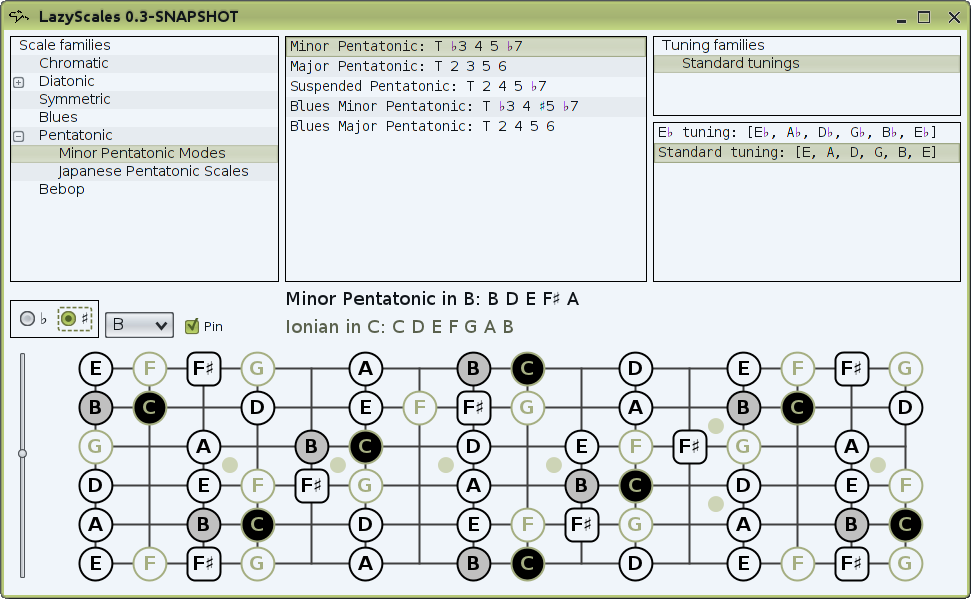
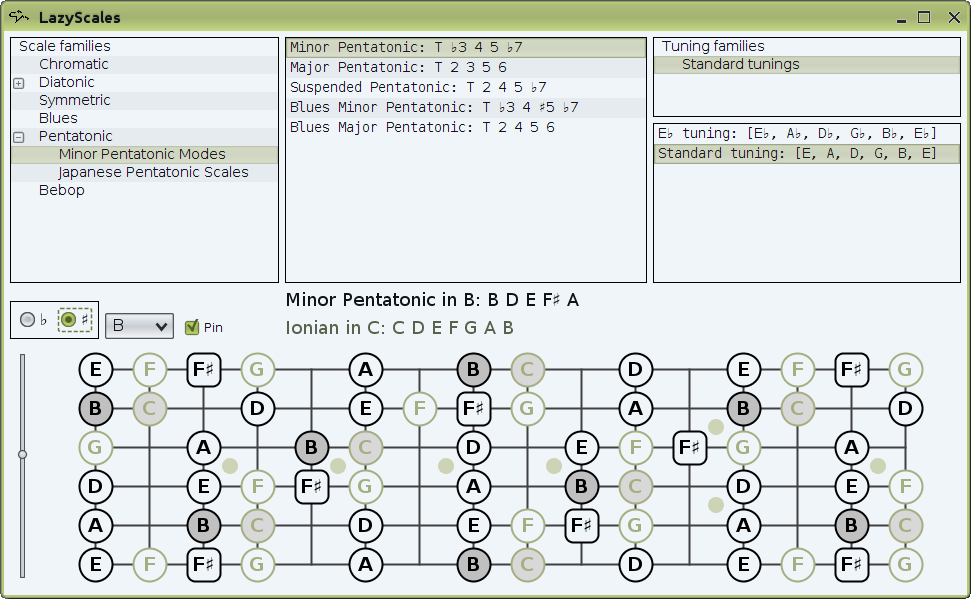
Use a lighter shade of gray for the starting note of the pinned scale.

diff --git a/lazyscales-gui/src/main/java/se/nawroth/scales/gui/FretboardPanel.java b/lazyscales-gui/src/main/java/se/nawroth/scales/gui/FretboardPanel.java
@@ -53,7 +53,8 @@ public class FretboardPanel extends JPanel
     private static final Color DOT_COLOR = new Color( 205, 212, 182 );
     private static final Color STRINGS_FRETS_COLOR = Color.darkGray;
     private static final Color STARTING_NOTE_BGCOLOR = Color.lightGray;
-    private static final Color PINNED_STARTING_NOTE_BGCOLOR = Color.black;
+    private static final Color PINNED_STARTING_NOTE_BGCOLOR = new Color( 216,
+            216, 216 );
     private static final int CIRCLE_DIVIDER = 20;
     private static final int STROKE_DIVIDER = 330;
     private static final int PANEL_WIDTH_MULTIPLIER = 2;

diff --git a/lazyscales-gui/src/main/java/se/nawroth/scales/gui/LazyScalesApplication.java b/lazyscales-gui/src/main/java/se/nawroth/scales/gui/LazyScalesApplication.java
@@ -71,7 +71,6 @@ import se.nawroth.scales.note.Notes;
 
 public class LazyScalesApplication
 {
-
     private JFrame frmLazyscales;
     private LazyScales lazy;
     private JTree scaleFamilyTree;
